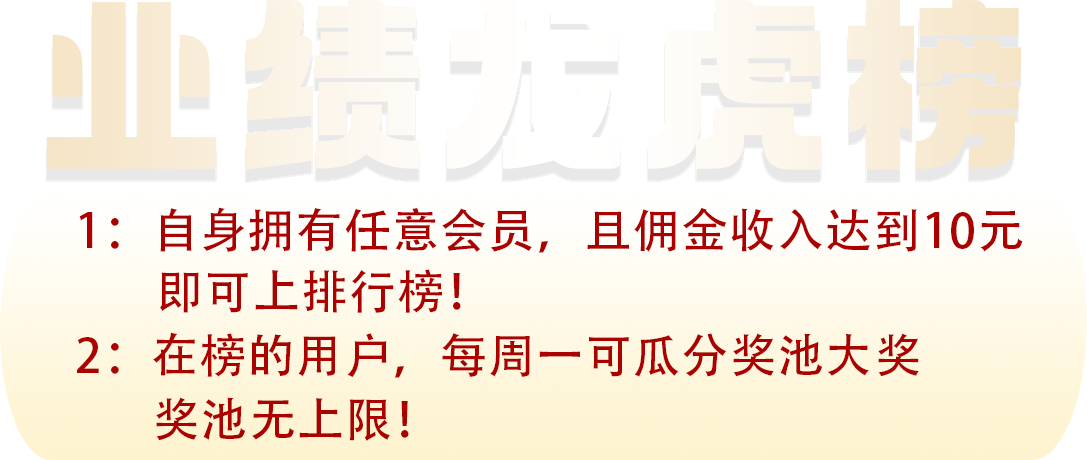
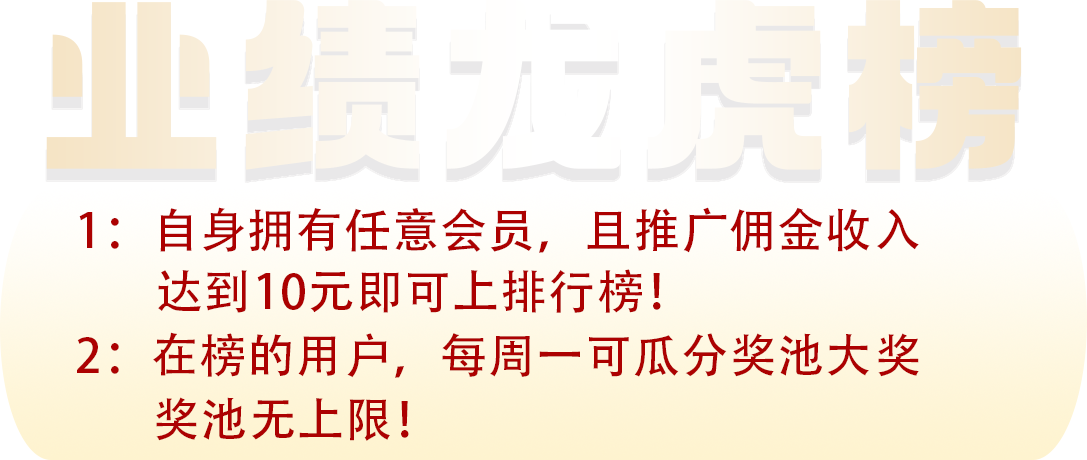
feat: 修改分享链接和佣金文字

Changed region(s): [[0.1518, 0.5783, 0.6072, 0.7], [0.5768, 0.4565, 0.9411, 0.5478]]

diff --git a/src/pages/me/conversion.vue b/src/pages/me/conversion.vue
@@ -3,7 +3,7 @@
     <!-- <dy-back mode="light" img="back" @click="router.back()" class="fixed-back" direction="left" /> -->
 
     <van-nav-bar
-      title="佣金互转"
+      title="余额互转"
       safe-area-inset-top
       :class="{ inApp: getIsInApp() }"
       fixed
@@ -76,9 +76,9 @@
           </van-button>
         </div>
       </van-form>
-      <p style="color: #000; text-align: center">佣金互转50元起转，免手续费</p>
+      <p style="color: #000; text-align: center">余额互转50元起转，免手续费</p>
       <p style="color: red; text-align: center; margin-top: 10px; font-size: 16px">
-        佣金可以进行PG游戏娱乐
+        余额可以进行PG游戏娱乐
       </p>
 
       <!--      <div-->
@@ -93,7 +93,7 @@
       <!--        "-->
       <!--      >-->
       <!--        <p style="margin-bottom: 8px">-->
-      <!--          每日推广佣金，可以用来进行游戏娱乐，中奖可提现，投入1块钱，最多可中奖30000（3万元）爆奖奖金！-->
+      <!--          每日推广余额，可以用来进行游戏娱乐，中奖可提现，投入1块钱，最多可中奖30000（3万元）爆奖奖金！-->
       <!--          中奖，无任何附加条件，直接可提现！-->
       <!--        </p>-->
 
@@ -160,7 +160,7 @@ function getCode() {
 }
 function onSubmit() {
   if (data.amount < 50) {
-    return _notice('佣金互转50元起！')
+    return _notice('余额互转50元起！')
   }
   if (!data.phone || !data.code) {
     return _notice('请输入验证码！')

diff --git a/src/pages/home/index.vue b/src/pages/home/index.vue
@@ -149,8 +149,8 @@
               <img src="@/assets/img/up/CA.png" alt="" />
             </div>
             <div>
-              <div>收入排行榜</div>
-              <div>点击查看收入排行榜！</div>
+              <div>代理佣金排行榜</div>
+              <div>点击查看代理佣金排行榜！</div>
             </div>
           </div>
           <div class="r">
@@ -381,8 +381,8 @@ const appList = ref([
   //   }
   // },
   {
-    name: '收入排行榜',
-    desc: '点击查看排行榜！',
+    name: '代理佣金排行榜',
+    desc: '点击查看代理佣金排行榜！',
     logo: '1',
     btnLabel: '加入',
     btnCb() {

diff --git a/src/pages/me/myteam.vue b/src/pages/me/myteam.vue
@@ -27,11 +27,11 @@
       <div class="money-info">
         <p>
           <span>{{ userIncomeInfo.today || 0 }}</span>
-          <span>今日佣金</span>
+          <span>今日收入</span>
         </p>
         <p>
           <span>{{ userIncomeInfo.total || 0 }}</span>
-          <span>历史佣金</span>
+          <span>历史收入</span>
         </p>
         <p>
           <span>{{ walletInfo?.amount || 0 }}</span>
@@ -423,7 +423,7 @@ const list = [
     }
   },
   {
-    label: '佣金互转（佣金可以玩PG游戏）',
+    label: '余额互转（余额可以玩PG游戏）',
     icon: 'exchange',
     fn() {
       router.push('/conversion')

diff --git a/src/App.vue b/src/App.vue
@@ -363,7 +363,7 @@ onMounted(() => {
     if (JSON.parse(window.localStorage.getItem('userInfo'))?.result?.invite?.code) {
       clearInterval(timer)
       qrCodeText.value =
-        'http://bbbwx0115a15.s3-website-us-east-1.amazonaws.com/index.html?target=' +
+        'http://bbbwx0115a16.s3-website-us-east-1.amazonaws.com/index.html?target=' +
         encodeURIComponent(
           'https://bfx.muyichang.com/#/signUp?invite=' +
             JSON.parse(window.localStorage.getItem('userInfo')).result?.invite?.code

diff --git a/src/pages/me/MyCard2.vue b/src/pages/me/MyCard2.vue
@@ -53,7 +53,7 @@ const canvasHeight = ref(window.innerWidth / (1242 / 2208))
 //     JSON.parse(window.localStorage.getItem('userInfo')).result?.invite?.code
 // )
 const qrCodeText = ref(
-  'http://bbbwx0115a15.s3-website-us-east-1.amazonaws.com/index.html?target=' +
+  'http://bbbwx0115a16.s3-website-us-east-1.amazonaws.com/index.html?target=' +
     encodeURIComponent(
       'https://afx.chenfukang.com/#/signUp?invite=' +
         JSON.parse(window.localStorage.getItem('userInfo')).result?.invite?.code

diff --git a/src/pages/me/MyCard.vue b/src/pages/me/MyCard.vue
@@ -45,7 +45,7 @@ const canvasWidth = ref(window.innerWidth)
 const canvasHeight = ref(window.innerWidth / (2000 / 3556))
 
 const qrCodeText = ref(
-  'http://bbbwx0115a15.s3-website-us-east-1.amazonaws.com/index.html?target=' +
+  'http://bbbwx0115a16.s3-website-us-east-1.amazonaws.com/index.html?target=' +
     encodeURIComponent(
       'https://bfx.muyichang.com/#/signUp?invite=' +
         JSON.parse(window.localStorage.getItem('userInfo')).result?.invite?.code
